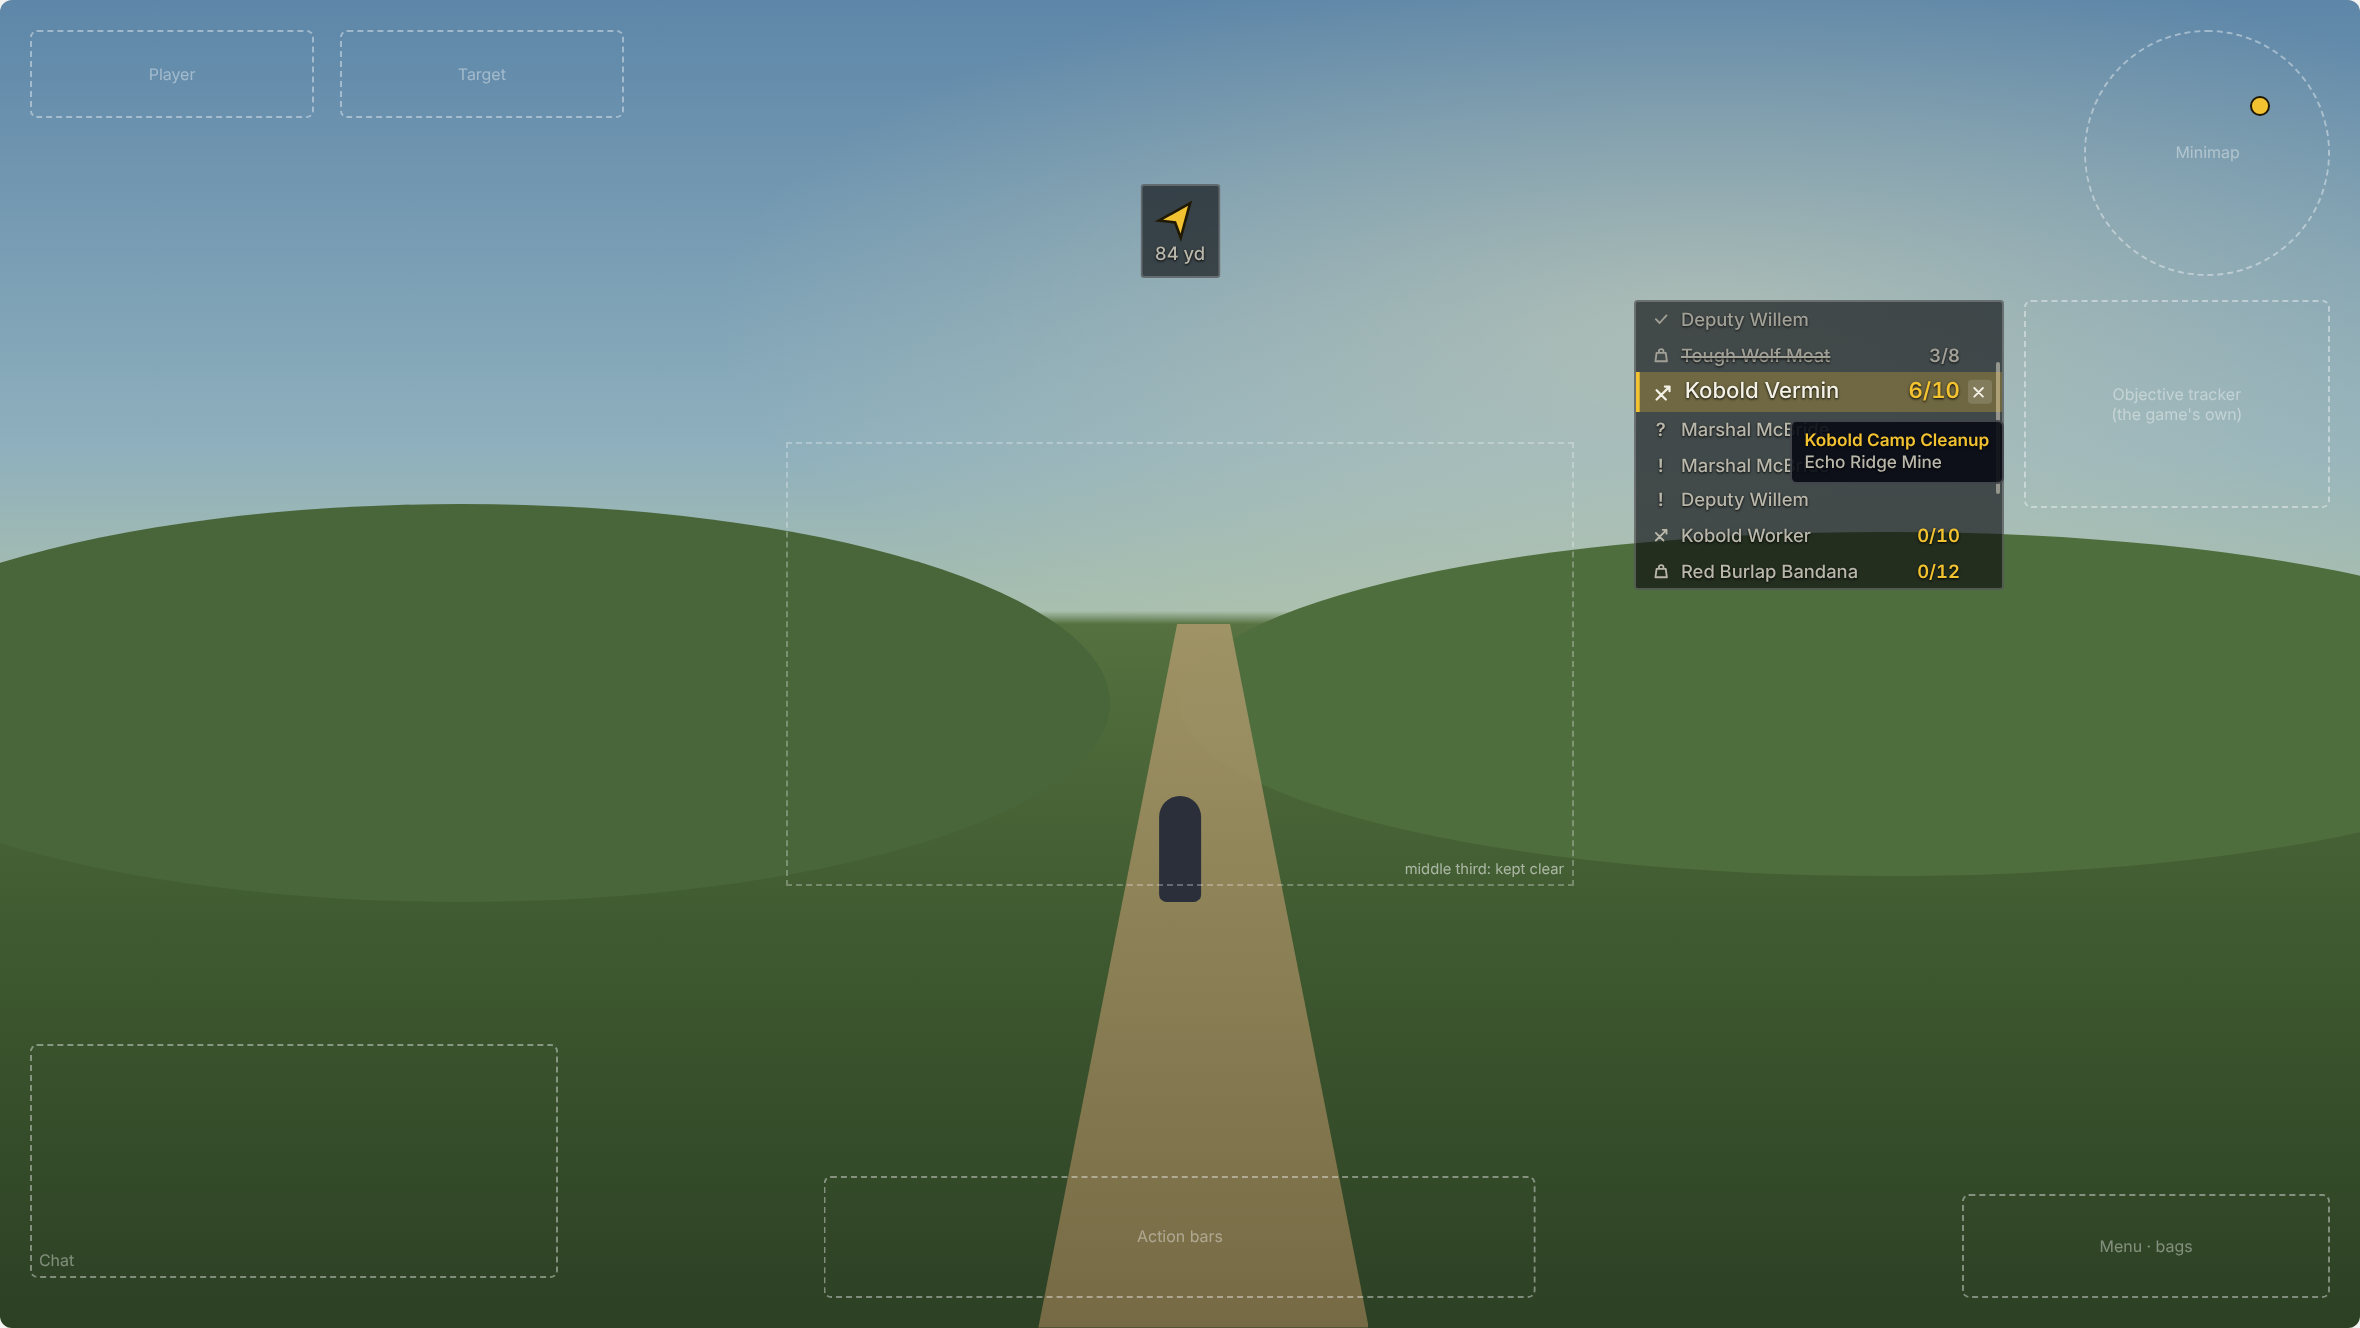
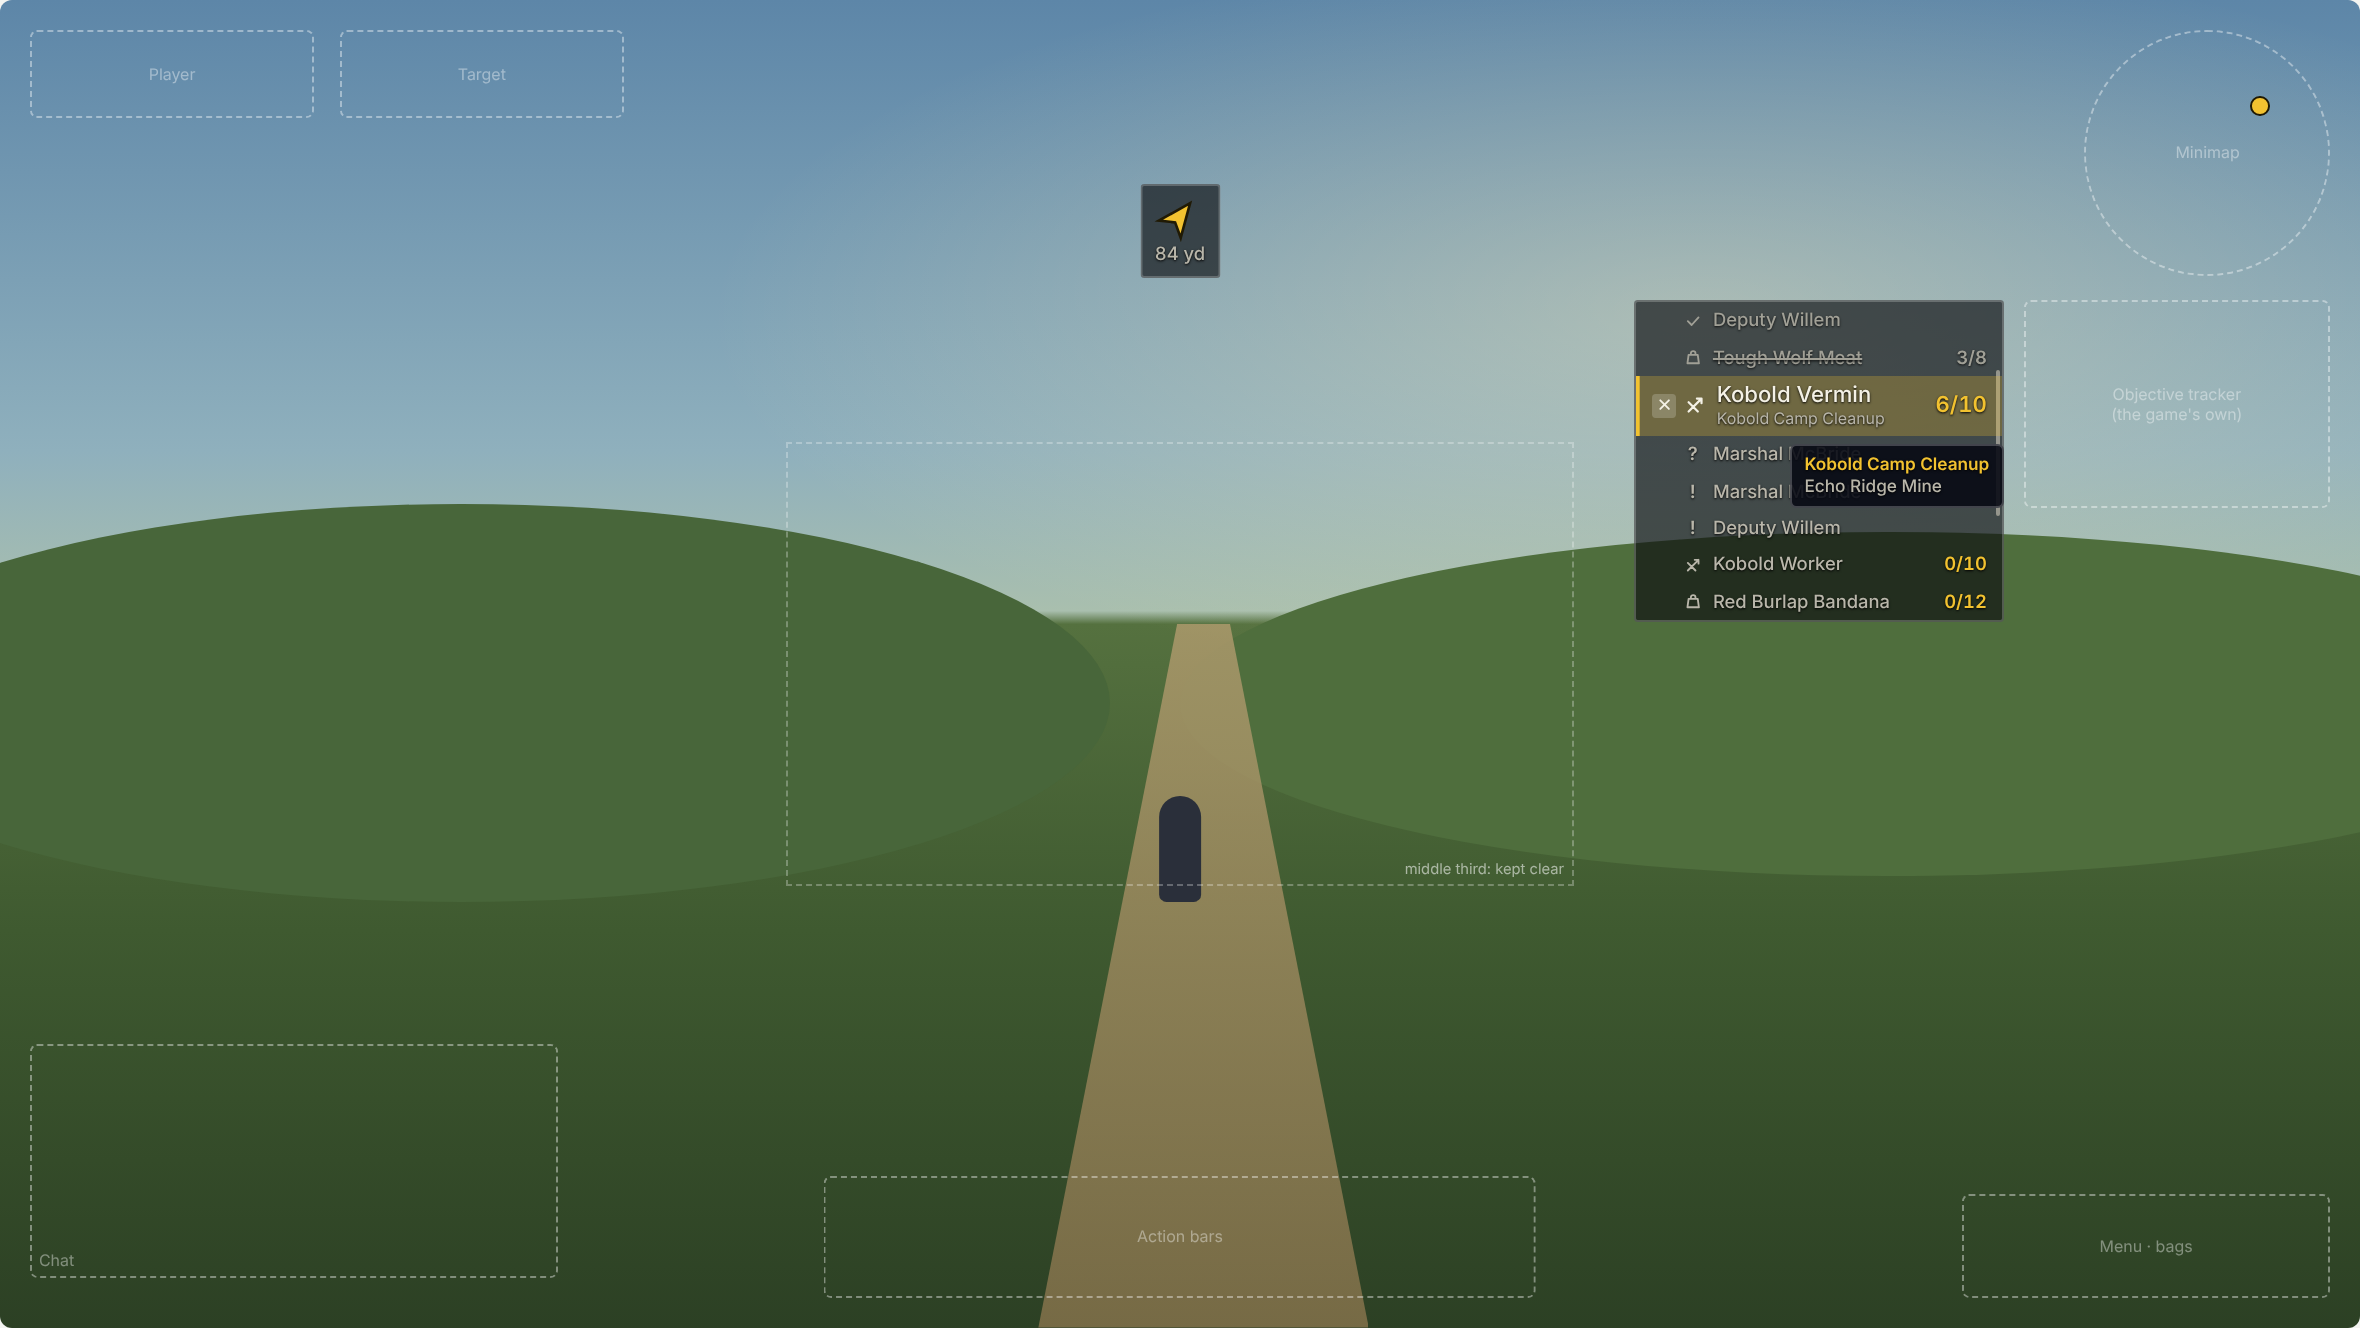
Move skip and restore to the left of each row in the mockups
Claude-Session: https://claude.ai/code/session_015S5PSNxGyghreRZzE3uVNk

Changed region(s): [[0.6805, 0.2161, 0.8661, 0.494]]

diff --git a/docs/mockups/ui-directions.html b/docs/mockups/ui-directions.html
@@ -218,6 +218,11 @@ h3{font:600 15px/1.3 var(--display);margin:0;display:flex;align-items:center;fle
 .step .txt small{display:block;font-size:.72em;font-weight:400;color:var(--g-dim)}
 .step{padding-block:calc(5*var(--u))}.step+.step{padding-top:calc(5*var(--u))}
 .demo{position:relative}
+.step{padding-right:calc(12*var(--u))}
+.gut{width:calc(20*var(--u));height:calc(20*var(--u));flex:none;display:flex;margin-right:calc(-3*var(--u))}
+.lbtn{width:calc(20*var(--u));height:calc(20*var(--u));padding:calc(3*var(--u));display:flex;flex:none;color:var(--g-text);background:rgba(255,255,255,.2);border-radius:calc(3*var(--u))}
+.lbtn svg{width:100%;height:100%;fill:none;stroke:currentColor;stroke-width:2.6;stroke-linecap:round;stroke-linejoin:round}
+.kind.sw{width:auto}
 .demo5{align-items:start}
 </style>
 <div class="wrap">
@@ -240,11 +245,10 @@ h3{font:600 15px/1.3 var(--display);margin:0;display:flex;align-items:center;fle
         <button data-v="tomtom" aria-pressed="false">With TomTom</button>
         <button data-v="hidden" aria-pressed="false">Hidden</button>
       </div></div>
-    <div class="group"><span>List style</span>
-      <div class="seg" id="style">
-        <button data-v="flat" aria-pressed="true">1 · Plain</button>
-        <button data-v="quest" aria-pressed="false">2 · Quest on current</button>
-        <button data-v="place" aria-pressed="false">3 · Place dividers</button>
+    <div class="group"><span>Skip button</span>
+      <div class="seg" id="pos">
+        <button data-v="gut" aria-pressed="true">A · Left gutter</button>
+        <button data-v="swap" aria-pressed="false">B · Replaces the icon</button>
       </div></div>
     <div class="group"><span>Screen</span>
       <div class="seg" id="scr">
@@ -280,22 +284,23 @@ h3{font:600 15px/1.3 var(--display);margin:0;display:flex;align-items:center;fle
     <div class="demo5" id="flow"></div>
     <ul>
       <li><b>The current step does not jump.</b> It is always the third row, marked by a band. When a step ends, the list slides up one row under it.</li>
+      <li><b>The current step names its quest.</b> A small second line, on that row only.</li>
       <li><b>History is visible.</b> The two rows above the band are what you just did: a tick for finished, crossed out for skipped.</li>
-      <li><b>Skipping keeps the step.</b> A cross appears on the row under the pointer. The skipped step stays in the list, crossed out.</li>
+      <li><b>Skipping keeps the step.</b> A cross appears at the left of the row under the pointer. The skipped step stays in the list, crossed out.</li>
       <li><b>Scroll back any time.</b> The mouse wheel moves through the whole route. A skipped step offers a restore arrow; restoring makes it the current step again. The list returns to the current step by itself after a few seconds.</li>
       <li><b>Progress is automatic.</b> Counts fill and steps tick themselves from the quest log. Nothing is ever ticked by hand.</li>
     </ul>
   </div>
 
   <div class="stack">
-    <h2>Three list styles</h2>
-    <p>Same moment in each. They differ in how much they say about which quest or place a step belongs to.</p>
-    <div class="demo5" id="styles"></div>
-    <ul>
-      <li><b>1 · Plain.</b> Icon, name, count. The quest name is in the tooltip. Least text.</li>
-      <li><b>2 · Quest on current.</b> Only the current step carries a small second line naming its quest. Answers "what is this for" without hovering.</li>
-      <li><b>3 · Place dividers.</b> A small label wherever the route moves to a new place. Best for planning trips; most text, and the window grows.</li>
-    </ul>
+    <h2>Skip and restore, both on the left</h2>
+    <p>One spot does both jobs: on a pending step it is a cross (skip), on a skipped step it is an arrow (bring back). Two ways to place it.</p>
+    <h3>A · Left gutter <span class="rec">Recommended</span></h3>
+    <p>A narrow empty column at the left edge. The button appears there under the pointer; the step's own icon stays visible beside it, so you still see what kind of step you are skipping.</p>
+    <div class="demo5" id="pos-gut"></div>
+    <h3>B · Replaces the icon</h3>
+    <p>No extra column. Under the pointer, the step's icon turns into the button. Narrower window, but the icon is hidden while you point at it.</p>
+    <div class="demo5" id="pos-swap"></div>
   </div>
 
   <div class="cols">
@@ -350,7 +355,7 @@ h3{font:600 15px/1.3 var(--display);margin:0;display:flex;align-items:center;fle
   var ROWS=8;
   var SAY={
    rest:'Playing. The band marks the current step: kill Kobold Vermin. Above it, one finished step and one skipped. Below it, the next five.',
-   hover:'Pointer on the current step. A cross appears at the end of that row; the tooltip names the quest and place. Any pending row offers the same cross.',
+   hover:'Pointer on the current step. A cross appears at the left of that row; the tooltip names the quest and place. Any pending row offers the same cross.',
    skip:'Kobold Vermin was skipped. It stays in the list, crossed out, and the list slid up one row so the next step sits in the band.',
    scroll:'Scrolled back to the start of the zone with the mouse wheel. The pointer is on the skipped wolf-meat step, which offers a restore arrow. The current step is still marked further down.',
    done:'The tenth kobold just died. The step ticked itself and the list slid up one row; handing the quest in is now in the band.',
@@ -359,23 +364,20 @@ h3{font:600 15px/1.3 var(--display);margin:0;display:flex;align-items:center;fle
    instance:'Inside a dungeon the game reports no position. The arrow goes and the window folds to a pause mark.',
    tomtom:'TomTom is installed. It gets the waypoint and we draw no arrow.',
    hidden:'Hidden by the player. One chat line says how to bring it back.'};
-  function row(i,v,style){
-    var s=S[i], done=i<v.cur&&v.skipped.indexOf(i)<0, sk=v.skipped.indexOf(i)>=0, cur=i===v.cur;
-    var cls=(done?'done ':'')+(sk?'skipd strike ':'')+(cur?'cur ':'')+(!done&&!sk&&!cur?'later ':'')+(v.hot===i?'hot':'');
-    var cnt=(v.cnt&&v.cnt[i])||s[2];
-    return '<div class="row step '+cls+'"><span class="kind">'+(done?TICK:ICON[s[0]])+'</span><span class="txt">'+s[1]+
-      (cur&&style==='quest'?'<small>'+s[3]+'</small>':'')+'</span>'+(cnt&&!(done&&!v.cnt)?'<span class="count">'+cnt+'</span>':'')+
-      (v.hot===i?'<span class="skipx">'+v.x+'</span>':'')+'</div>';
+  function row(i,v,pos){
+    var s=S[i], done=i<v.cur&&v.skipped.indexOf(i)<0, sk=v.skipped.indexOf(i)>=0, cur=i===v.cur, hot=v.hot===i;
+    var cls=(done?'done ':'')+(sk?'skipd strike ':'')+(cur?'cur ':'')+(!done&&!sk&&!cur?'later ':'')+(hot?'hot':'');
+    var cnt=(v.cnt&&v.cnt[i])||s[2], btn=hot?'<span class="lbtn">'+v.x+'</span>':'', ic=done?TICK:ICON[s[0]];
+    return '<div class="row step '+cls+'">'+(pos==='gut'?'<span class="gut">'+btn+'</span><span class="kind">'+ic+'</span>'
+        :(hot?'<span class="kind sw">'+btn+'</span>':'<span class="kind">'+ic+'</span>'))+
+      '<span class="txt">'+s[1]+(cur?'<small>'+s[3]+'</small>':'')+'</span>'+(cnt&&!(done&&!v.cnt)?'<span class="count">'+cnt+'</span>':'')+'</div>';
   }
-  function card(m,style){
+  function card(m,pos){
     if(m==='hidden') return '';
     if(m==='instance') return '<div class="row"><span class="kind">'+PAUSE+'</span></div>';
-    if(m==='combat') return row(5,{cur:5,skipped:[]},'flat');
-    var v=V[m], h='', last=null;
-    for(var i=v.from;i<v.from+ROWS;i++){
-      if(style==='place'&&S[i][4]!==last) h+='<div class="place">'+S[i][4]+'</div>';
-      last=S[i][4]; h+=row(i,v,style);
-    }
+    if(m==='combat') return row(5,{cur:5,skipped:[]},pos);
+    var v=V[m], h='';
+    for(var i=v.from;i<v.from+ROWS;i++) h+=row(i,v,pos);
     return '<span class="sb" style="top:'+(4+92*v.from/S.length)+'%;height:'+(92*ROWS/S.length)+'%"></span>'+h;
   }
   function arrow(m){
@@ -384,17 +386,19 @@ h3{font:600 15px/1.3 var(--display);margin:0;display:flex;align-items:center;fle
     return '<svg class="ptr" viewBox="0 0 24 24"><path class="f" d="M12 2 20 21 12 16 4 21Z"/></svg><span class="dist">'+((m==='skip'||m==='done')?140:84)+' yd</span>';
   }
   var s=document.getElementById('screen'),c=document.getElementById('card'),a=document.getElementById('arrow'),tip=document.getElementById('tip');
-  var st={moment:'rest',scr:'std',style:'flat'};
+  var st={moment:'rest',scr:'std',pos:'gut'};
   function seg(id){
     var el=document.getElementById(id);
     el.addEventListener('click',function(e){
       var b=e.target.closest('button'); if(!b)return;
-      st[id]=b.dataset.v; [].forEach.call(el.children,function(x){x.setAttribute('aria-pressed',x===b)}); render();
+      st[id]=b.dataset.v; [].forEach.call(el.children,function(x){x.setAttribute('aria-pressed',x===b)});
+      if(id==='pos'&&st.moment!=='hover'&&st.moment!=='scroll'){st.moment='hover';[].forEach.call(document.getElementById('moment').children,function(x){x.setAttribute('aria-pressed',x.dataset.v==='hover')});}
+      render();
     });
   }
   function render(){
     var m=st.moment; s.dataset.moment=m; s.dataset.screen=st.scr;
-    var ch=card(m,st.style), ah=arrow(m);
+    var ch=card(m,st.pos), ah=arrow(m);
     c.innerHTML=ch; c.hidden=!ch; c.classList.toggle('mini',m==='instance');
     a.innerHTML=ah; a.hidden=!ah;
     tip.hidden=m!=='hover'; tip.innerHTML='<b>Kobold Camp Cleanup</b><span>Echo Ridge Mine</span>';
@@ -408,11 +412,12 @@ h3{font:600 15px/1.3 var(--display);margin:0;display:flex;align-items:center;fle
     document.getElementById('m-rows').textContent=c.querySelectorAll('.step').length;
     document.getElementById('m-what').textContent=SAY[m];
   }
-  function one(cap,m,style){return '<div class="demo"><span class="cap">'+cap+'</span><div class="plate">'+card(m,style||'flat')+'</div></div>';}
-  document.getElementById('flow').innerHTML=one('1 · Playing','rest')+one('2 · Pointer on a step: a cross','hover')+one('3 · Skipped: stays, list slides up','skip')+
-    one('4 · Scrolled back: restore a skipped step','scroll')+one('5 · A step finished by itself','done');
-  document.getElementById('styles').innerHTML=one('1 · Plain','rest','flat')+one('2 · Quest on current','rest','quest')+one('3 · Place dividers','rest','place');
-  ['moment','scr','style'].forEach(seg);render();
+  function one(cap,m,pos){return '<div class="demo"><span class="cap">'+cap+'</span><div class="plate">'+card(m,pos||'gut')+'</div></div>';}
+  document.getElementById('flow').innerHTML=one('1 · Playing','rest')+one('2 · Pointer on a step: a cross on the left','hover')+one('3 · Skipped: stays, list slides up','skip')+
+    one('4 · Scrolled back: restore, same spot','scroll')+one('5 · A step finished by itself','done');
+  ['gut','swap'].forEach(function(p){document.getElementById('pos-'+p).innerHTML=one('Playing','rest',p)+one('Pointer on a pending step','hover',p)+one('Pointer on a skipped step','scroll',p);});
+  ['moment','scr','pos'].forEach(seg);render();
+
   window.addEventListener('resize',render);
   if(document.fonts&&document.fonts.ready)document.fonts.ready.then(render);
 })();

diff --git a/docs/ui-concepts.md b/docs/ui-concepts.md
@@ -313,9 +313,13 @@ Height should be adjustable. The mockup uses the first stretch of Northshire wit
 interleaved: [`mockups/step-list-flow.png`](mockups/step-list-flow.png),
 [`mockups/guide-window-on-screen.png`](mockups/guide-window-on-screen.png).
 
-Still to choose, drawn in [`mockups/list-styles.png`](mockups/list-styles.png): plain rows;
-quest name as a small second line on the current step only; or place dividers wherever the
-route moves.
+Decided: the current step carries its quest name as a small second line; other rows are plain.
+
+The owner also asked for skip and restore to share one spot on the left of the row instead of
+the right end. Two placements are drawn in
+[`mockups/skip-position.png`](mockups/skip-position.png): a narrow left gutter where the button
+appears beside the step's icon (recommended, the icon stays visible), or the button taking the
+icon's place under the pointer (no extra column). Awaiting the owner's choice.
 
 **Planning ahead** (owner's question: is there a timeline of following steps?). Superseded in
 part by the guide window above, which shows the next five steps at rest and scrolls further.
